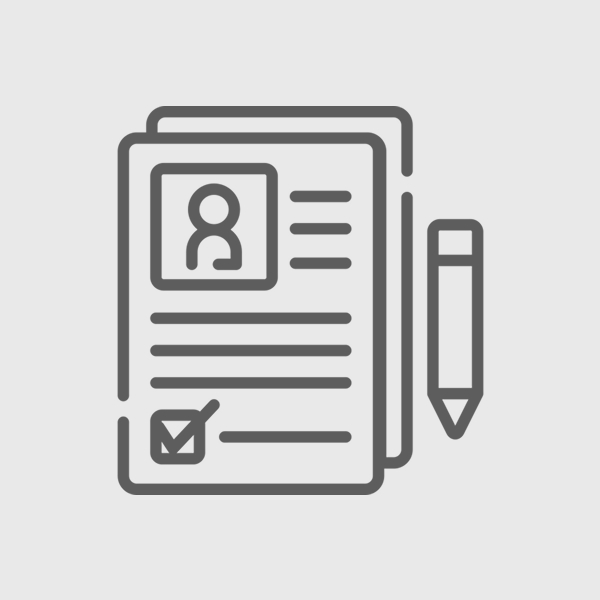
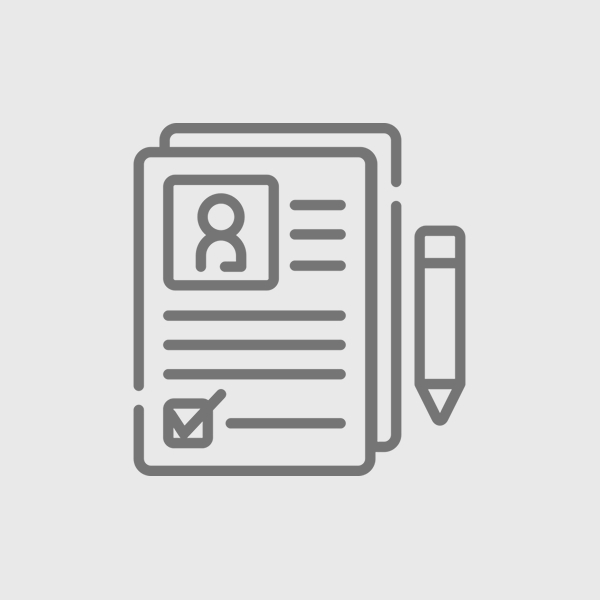
update: polish forms and settings ui

Changed region(s): [[0.18, 0.15, 0.81, 0.84]]

diff --git a/Frontend/src/components/organism/consumoForm/ConsumoForm.jsx b/Frontend/src/components/organism/consumoForm/ConsumoForm.jsx
@@ -1,9 +1,10 @@
-import { useEffect, useState } from "react";
+  import { useEffect, useState } from "react";
 import { Search, Trash2 } from "lucide-react";
 import toast from "react-hot-toast";
 import { buildApiUrl } from "@/utils/apiBase";
 import { consumoInputFields } from "@/data/activitiesData";
 import styles from "./ConsumoForm.module.css";
+import { useActionModal } from "@/context/actionModalProvider/ActionModalProvider";
 
 // Obtener configuraciones de campos desde el arreglo de configuración
 const searchField =
@@ -19,6 +20,7 @@ const ConsumoForm = ({
 }) => {
   const [search, setSearch] = useState("");
   const [searchResults, setSearchResults] = useState([]);
+  const { openActionModal } = useActionModal();
 
   // Cargar consumos existentes al entrar en modo edición
   useEffect(() => {
@@ -170,6 +172,25 @@ const ConsumoForm = ({
     (item) => !selectedProductIds.has(Number(item.id_insumo)),
   );
 
+  const handleRemoveConsumption = (idInsumo) => {
+    setConsumptionItems((prev) =>
+      prev.filter(
+        (currentItem) => Number(currentItem.id_insumo) !== Number(idInsumo),
+      ),
+    );
+  };
+
+  const openDeleteConsumptionModal = (item) => {
+    openActionModal({
+      variant: "delete",
+      title: "Quieres eliminar",
+      highlight: item?.nombre || "este consumo",
+      description:
+        "Esta accion eliminara el consumo del formulario. Recuerda guardar para aplicar el cambio definitivamente.",
+      onConfirm: () => handleRemoveConsumption(item.id_insumo),
+    });
+  };
+
   return (
     <section className={styles.container}>
       <header className={styles.header}>
@@ -257,15 +278,7 @@ const ConsumoForm = ({
                   <button
                     type="button"
                     className={styles.removeButton}
-                    onClick={() =>
-                      setConsumptionItems((prev) =>
-                        prev.filter(
-                          (currentItem) =>
-                            Number(currentItem.id_insumo) !==
-                            Number(item.id_insumo),
-                        ),
-                      )
-                    }
+                    onClick={() => openDeleteConsumptionModal(item)}
                     aria-label={`Quitar ${item.nombre}`}
                   >
                     <Trash2 />

diff --git a/Frontend/src/components/molecules/navList/NavList.jsx b/Frontend/src/components/molecules/navList/NavList.jsx
@@ -2,10 +2,14 @@ import { sidebarData } from "@/data/sidebarData";
 import { useSidebarStore } from "@/store/sidebarStore";
 import { useNavigate } from "react-router-dom";
 import styles from "./NavList.module.css";
+import { hasRole } from "@/utils/auth";
+import { useUserStore } from "@/store/userStore";
 
 const NavList = ({ isMobile = false }) => {
   const { currentSection, setCurrentSection, isCollapsed } = useSidebarStore();
   const navigate = useNavigate();
+  const { user } = useUserStore();
+  const canView = hasRole(user, 1);
 
   const handleSection = (path) => {
     setCurrentSection(path);
@@ -14,18 +18,31 @@ const NavList = ({ isMobile = false }) => {
 
   return (
     <ul className={styles.list}>
-      {sidebarData.slice(0, 6).map((item, i) => (
-        <li
-          key={item.path || i}
-          className={`${styles.item} ${
-            currentSection === item.path ? styles.active : ""
-          } ${isMobile && styles.itemMobile}`}
-          onClick={() => handleSection(item.path)}
-        >
-          {item.icon}
-          {isCollapsed ? "" : item.title}
-        </li>
-      ))}
+      {canView
+        ? sidebarData.slice(0, 6).map((item, i) => (
+            <li
+              key={item.path || i}
+              className={`${styles.item} ${
+                currentSection === item.path ? styles.active : ""
+              } ${isMobile && styles.itemMobile}`}
+              onClick={() => handleSection(item.path)}
+            >
+              {item.icon}
+              {isCollapsed ? "" : item.title}
+            </li>
+          ))
+        : sidebarData.slice(0, 5).map((item, i) => (
+            <li
+              key={item.path || i}
+              className={`${styles.item} ${
+                currentSection === item.path ? styles.active : ""
+              } ${isMobile && styles.itemMobile}`}
+              onClick={() => handleSection(item.path)}
+            >
+              {item.icon}
+              {isCollapsed ? "" : item.title}
+            </li>
+          ))}
     </ul>
   );
 };

diff --git a/Frontend/src/pages/activityForm/ActivityForm.jsx b/Frontend/src/pages/activityForm/ActivityForm.jsx
@@ -21,7 +21,6 @@ const ActivityForm = ({ title }) => {
   const { toggleLoader } = useLoader();
   const navigate = useNavigate();
   const { user } = useUserStore();
-  const canView = hasRole(user, 1);
 
   const [formData, setFormData] = useState({
     idPerson: "",
@@ -91,7 +90,10 @@ const ActivityForm = ({ title }) => {
 
     if (!normalizedCost) {
       newErrors.cost = "El costo es obligatorio.";
-    } else if (!/^\d{1,8}$/.test(normalizedCost) || Number(normalizedCost) > 10000000) {
+    } else if (
+      !/^\d{1,8}$/.test(normalizedCost) ||
+      Number(normalizedCost) > 10000000
+    ) {
       newErrors.cost = "Solo numeros enteros hasta 10.000.000";
     }
 
@@ -316,7 +318,7 @@ const ActivityForm = ({ title }) => {
                   placeholder={field.placeholder}
                   select={field?.select}
                   error={errors[field.name]}
-                  disabled={field?.select && !canView}
+                  disabled={field?.select && isEditMode}
                   onBlur={handleBlur}
                   onChange={handleChange}
                   required={field?.required}

diff --git a/Frontend/src/components/molecules/updateCrendentials/UpdateCrendentials.jsx b/Frontend/src/components/molecules/updateCrendentials/UpdateCrendentials.jsx
@@ -6,7 +6,12 @@ import toast from "react-hot-toast";
 import { useLoader } from "@/context/loaderProvider/LoaderProvider";
 import styles from "./UpdateCrendentials.module.css";
 
-const UpdateCrendentials = ({ isOpen, userId, defaultUsername = "", onClose }) => {
+const UpdateCrendentials = ({
+  isOpen,
+  userId,
+  defaultUsername = "",
+  onClose,
+}) => {
   const [newPassword, setNewPassword] = useState("");
   const [confirmPassword, setConfirmPassword] = useState("");
   const [errors, setErrors] = useState({});
@@ -124,7 +129,7 @@ const UpdateCrendentials = ({ isOpen, userId, defaultUsername = "", onClose }) =
         </header>
 
         <div className={styles.content}>
-          <h3 className={styles.title}>Actualizar credenciales de acceso</h3>
+          <h3 className={styles.title}>Actualizar tu contraseña</h3>
           <p className={styles.userMeta}>
             ID usuario: <span className={styles.userId}>{userId}</span>
           </p>

diff --git a/Frontend/src/components/organism/settingsPanel/SettingsPanel.jsx b/Frontend/src/components/organism/settingsPanel/SettingsPanel.jsx
@@ -186,7 +186,7 @@ const SettingsPanel = ({ onOpenCredentials }) => {
           }
         >
           <KeyRound size={16} />
-          Gestionar credenciales de acceso
+          Cambiar contraseña
         </button>
       </header>
 
@@ -213,7 +213,7 @@ const SettingsPanel = ({ onOpenCredentials }) => {
                 onChange={handleChange}
                 type={field?.type}
                 value={formData[field.name] ?? ""}
-                disabled={field?.name === "role"}
+                disabled={field?.name === "email" || field?.name === "role"}
               />
             ))}
           </div>

diff --git a/Frontend/src/components/atoms/imgPicker/ImgPicker.module.css b/Frontend/src/components/atoms/imgPicker/ImgPicker.module.css
@@ -41,7 +41,7 @@
   width: 180px;
   height: 180px;
   border-radius: 12px;
-  border: 1px dashed var(--color-border, #dfe3e8);
+  border: 2px dashed var(--color-border, #c9ced3);
   display: grid;
   place-items: center;
 }

diff --git a/Frontend/src/components/organism/settingsPanel/SettingsPanel.module.css b/Frontend/src/components/organism/settingsPanel/SettingsPanel.module.css
@@ -18,7 +18,7 @@
 }
 
 .title {
-  font-size: 1.35rem;
+  font-size: 1.6rem;
   font-weight: 700;
   color: var(--text-primary);
 }
